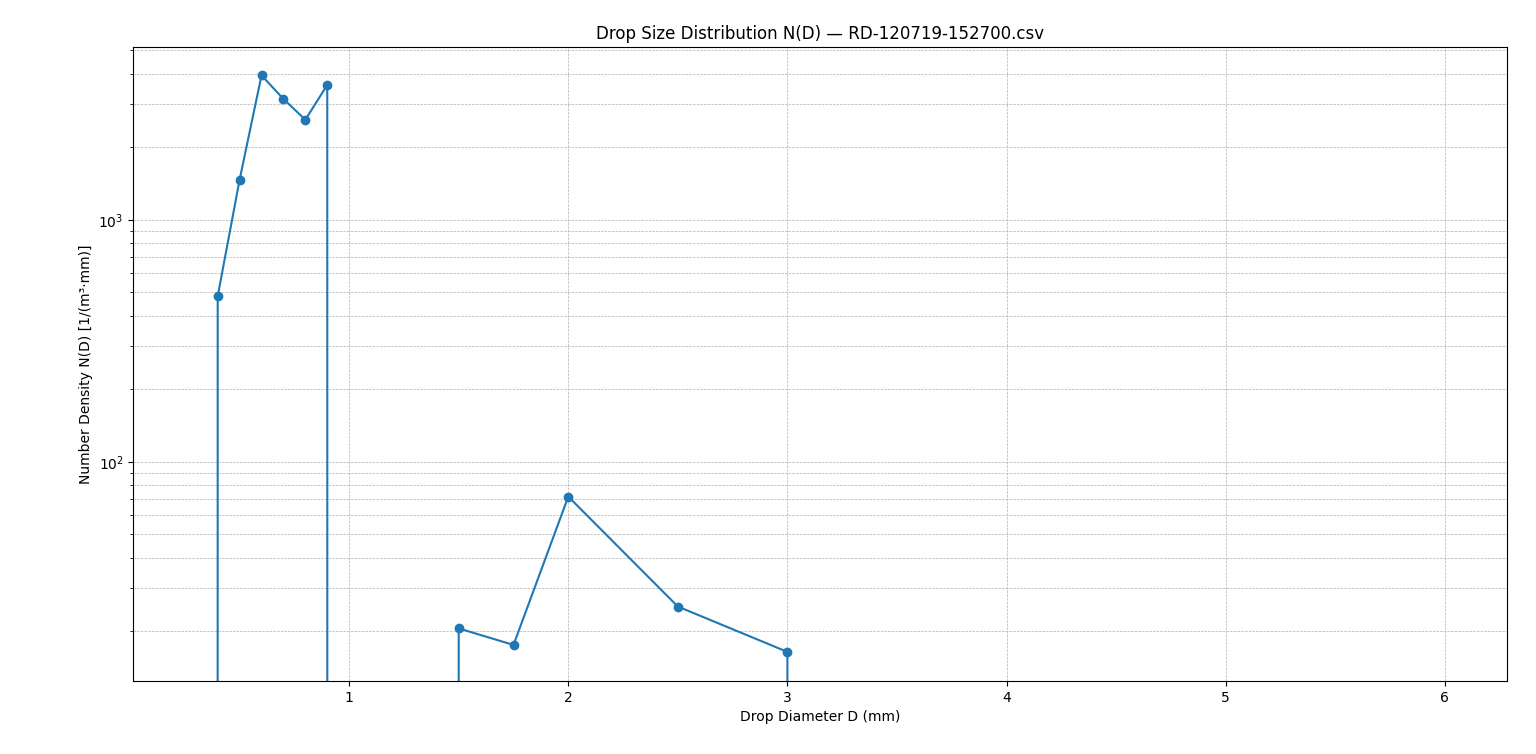
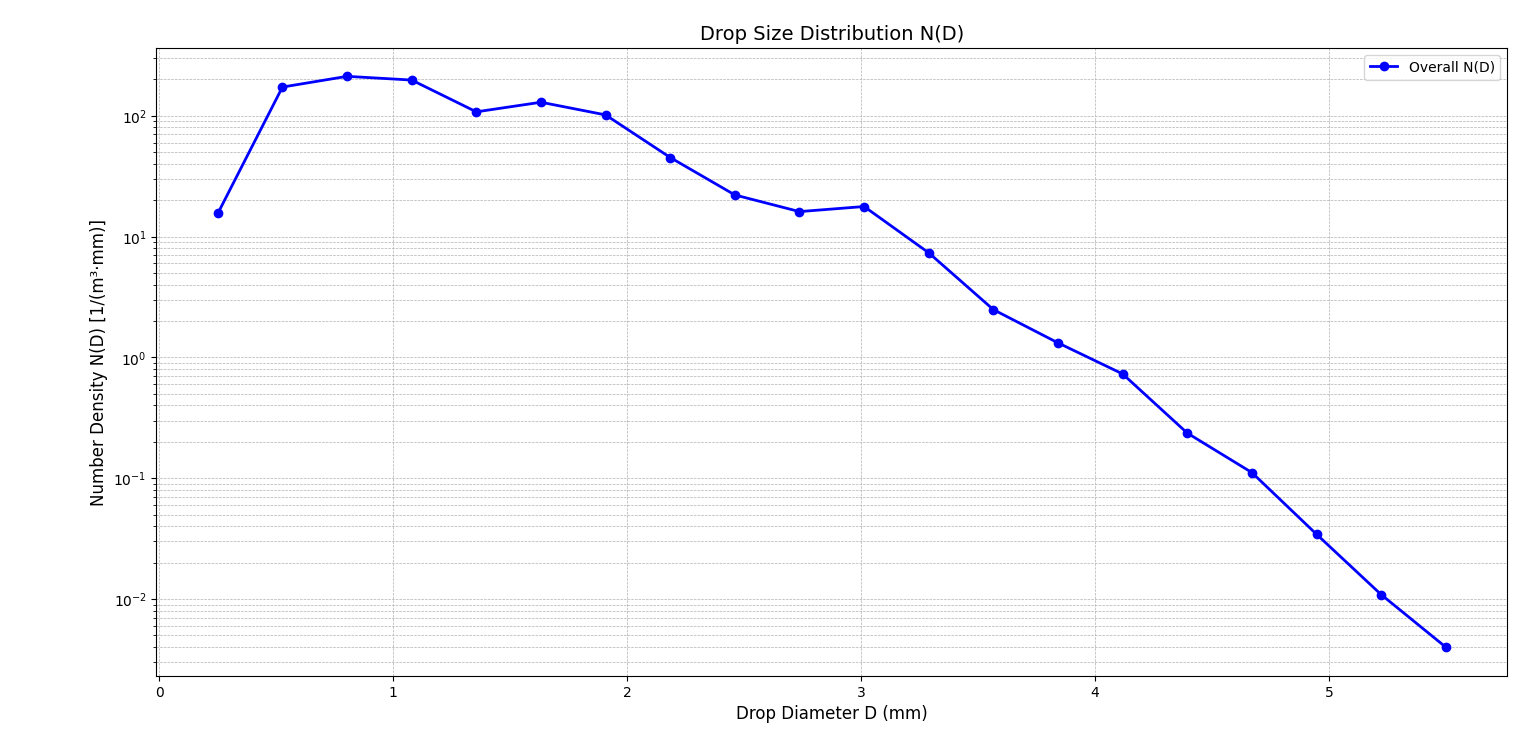
firstpartdone

diff --git a/plot_rainfall.py b/plot_rainfall.py
@@ -7,7 +7,7 @@ import os
 # === Constants ===
 F = 0.005  # sensor area (m²)
 vDi = np.array([0.5, 1.0, 2.0, 3.0, 4.5, 6.0, 7.5, 9.0, 10.5, 12.0,
-                13.5, 15.0, 16.5, 18.0, 19.5, 21.0, 22.5, 24.0, 25.5, 27.0])  # fall velocities (example)
+                13.5, 15.0, 16.5, 18.0, 19.5, 21.0, 22.5, 24.0, 25.5, 27.0])  # fall velocity (example)
 delta_Di = np.array([0.1] * 20)  # bin width (example)
 Di = np.linspace(0.25, 5.5, 20)  # drop diameters (mm)
 
@@ -16,9 +16,8 @@ path = "data/"
 all_files = glob.glob(os.path.join(path, "RD-*.csv"))
 
 if not all_files:
-    raise FileNotFoundError("No CSV files found in the data folder!")
+    raise FileNotFoundError("⚠ No CSV files found in the 'data/' folder!")
 
-# Initialize total counts
 total_counts = np.zeros(20)
 total_time = 0
 
@@ -26,19 +25,23 @@ for file in all_files:
     df = pd.read_csv(file)
     drop_cols = [f"n{i}" for i in range(1, 21)]
 
-    # Sum all drop counts
-    total_counts += df[drop_cols].sum().values
-    total_time += df["Interval [s]"].sum()
+    # Add only nonzero intervals
+    df_valid = df[df[drop_cols].sum(axis=1) > 0]
+    if not df_valid.empty:
+        total_counts += df_valid[drop_cols].sum().values
+        total_time += df_valid["Interval [s]"].sum()
 
-# === Compute overall N(D) ===
+# === Compute Overall N(D) ===
 NDi = total_counts / (F * total_time * vDi * delta_Di)
 
 # === Plot ===
 plt.figure(figsize=(8, 6))
-plt.plot(Di, NDi, marker='o', color='b', linewidth=2)
-plt.yscale('log')
-plt.xlabel("Drop Diameter D (mm)")
-plt.ylabel("Number Density N(D) [1/(m³·mm)]")
-plt.title("Overall Drop Size Distribution N(D)")
+plt.plot(Di, NDi, marker='o', color='blue', linewidth=2, label='Overall N(D)')
+plt.yscale('log')  
+plt.xlabel("Drop Diameter D (mm)", fontsize=12)
+plt.ylabel("Number Density N(D) [1/(m³·mm)]", fontsize=12)
+plt.title("Drop Size Distribution N(D)", fontsize=14)
 plt.grid(True, which='both', linestyle='--', lw=0.5)
+plt.legend()
+plt.tight_layout()
 plt.show()
